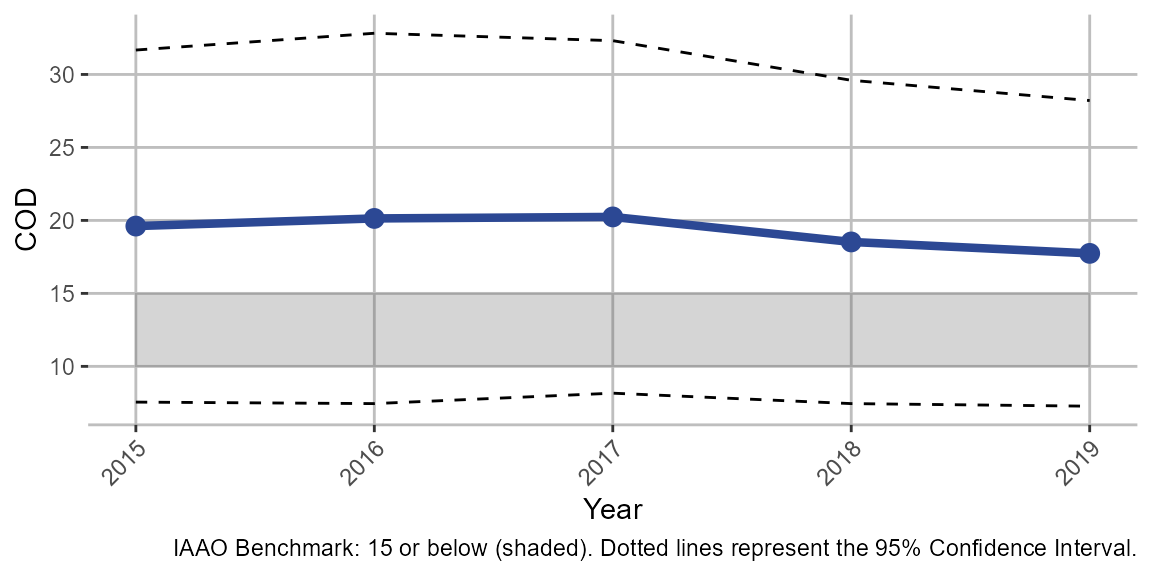
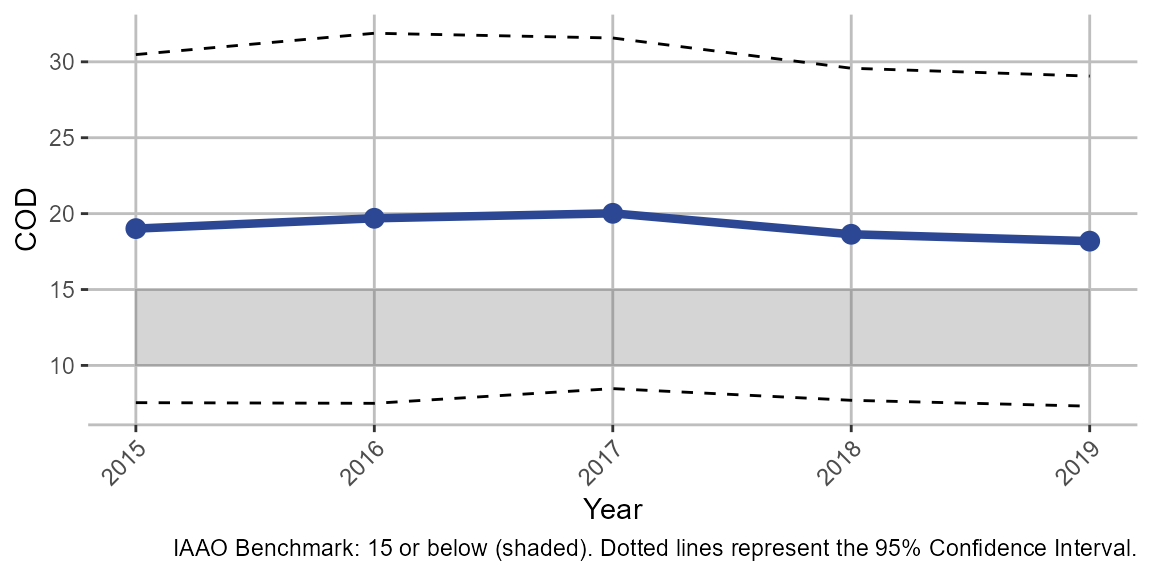
update package

diff --git a/docs/articles/Figures.html b/docs/articles/Figures.html
@@ -126,7 +126,7 @@
 <code class="sourceCode R"><span class="fu">rmarkdown</span><span class="fu">::</span><span class="fu"><a href="https://pkgs.rstudio.com/rmarkdown/reference/paged_table.html">paged_table</a></span><span class="op">(</span><span class="va">stats</span><span class="op">)</span></code></pre></div>
 <div data-pagedtable="false">
 <script data-pagedtable-source type="application/json">
-{"columns":[{"label":["N"],"name":[1],"type":["int"],"align":["right"]},{"label":["COD"],"name":[2],"type":["dbl"],"align":["right"]},{"label":["COD_SE"],"name":[3],"type":["dbl"],"align":["right"]},{"label":["PRD"],"name":[4],"type":["dbl"],"align":["right"]},{"label":["PRD_SE"],"name":[5],"type":["dbl"],"align":["right"]},{"label":["PRB"],"name":[6],"type":["dbl"],"align":["right"]},{"label":["PRB_SE"],"name":[7],"type":["dbl"],"align":["right"]},{"label":["q1_ratio"],"name":[8],"type":["dbl"],"align":["right"]},{"label":["median_ratio"],"name":[9],"type":["dbl"],"align":["right"]},{"label":["q3_ratio"],"name":[10],"type":["dbl"],"align":["right"]},{"label":["q1_sale"],"name":[11],"type":["dbl"],"align":["right"]},{"label":["median_sale"],"name":[12],"type":["dbl"],"align":["right"]},{"label":["q3_sale"],"name":[13],"type":["dbl"],"align":["right"]},{"label":["q1_assessed_value"],"name":[14],"type":["dbl"],"align":["right"]},{"label":["median_assessed_value"],"name":[15],"type":["dbl"],"align":["right"]},{"label":["q3_assessed_value"],"name":[16],"type":["dbl"],"align":["right"]},{"label":["Year"],"name":[17],"type":["dbl"],"align":["right"]}],"data":[{"1":"51879","2":"19.6120","3":"6.1534","4":"1.0595","5":"0.0158","6":"-0.0514","7":"0.0012","8":"0.7758364","9":"0.9093448","10":"1.057180","11":"148000","12":"230000","13":"375000","14":"136670.0","15":"213430","16":"331235.0","17":"2015"},{"1":"62852","2":"20.1355","3":"6.4729","4":"1.0591","5":"0.0048","6":"-0.0462","7":"0.0011","8":"0.7705720","9":"0.9001375","10":"1.060422","11":"148000","12":"229900","13":"365000","14":"133940.0","15":"209150","16":"321720.0","17":"2016"},{"1":"65961","2":"20.2388","3":"6.1611","4":"1.0356","5":"0.0090","6":"-0.0269","7":"0.0011","8":"0.7428108","9":"0.8732099","10":"1.031267","11":"155000","12":"235000","13":"365000","14":"136960.0","15":"209380","16":"316300.0","17":"2017"},{"1":"65298","2":"18.5243","3":"5.6507","4":"1.0101","5":"0.0098","6":"0.0133","7":"0.0010","8":"0.7470336","9":"0.8856039","10":"1.021504","11":"159642","12":"239900","13":"370000","14":"132382.5","15":"210645","16":"331257.5","17":"2018"},{"1":"62041","2":"17.7419","3":"5.3419","4":"1.0066","5":"0.0057","6":"0.0098","7":"0.0010","8":"0.7681042","9":"0.9035000","10":"1.036399","11":"164900","12":"245000","13":"372000","14":"140220.0","15":"217690","16":"336480.0","17":"2019"}],"options":{"columns":{"min":{},"max":[10]},"rows":{"min":[10],"max":[10]},"pages":{}}}
+{"columns":[{"label":["N"],"name":[1],"type":["int"],"align":["right"]},{"label":["COD"],"name":[2],"type":["dbl"],"align":["right"]},{"label":["COD_SE"],"name":[3],"type":["dbl"],"align":["right"]},{"label":["PRD"],"name":[4],"type":["dbl"],"align":["right"]},{"label":["PRD_SE"],"name":[5],"type":["dbl"],"align":["right"]},{"label":["PRB"],"name":[6],"type":["dbl"],"align":["right"]},{"label":["PRB_SE"],"name":[7],"type":["dbl"],"align":["right"]},{"label":["q1_ratio"],"name":[8],"type":["dbl"],"align":["right"]},{"label":["median_ratio"],"name":[9],"type":["dbl"],"align":["right"]},{"label":["q3_ratio"],"name":[10],"type":["dbl"],"align":["right"]},{"label":["q1_sale"],"name":[11],"type":["dbl"],"align":["right"]},{"label":["median_sale"],"name":[12],"type":["dbl"],"align":["right"]},{"label":["q3_sale"],"name":[13],"type":["dbl"],"align":["right"]},{"label":["q1_assessed_value"],"name":[14],"type":["dbl"],"align":["right"]},{"label":["median_assessed_value"],"name":[15],"type":["dbl"],"align":["right"]},{"label":["q3_assessed_value"],"name":[16],"type":["dbl"],"align":["right"]},{"label":["Year"],"name":[17],"type":["dbl"],"align":["right"]}],"data":[{"1":"51879","2":"19.0119","3":"5.8493","4":"1.0189","5":"0.0322","6":"-0.0514","7":"0.0012","8":"0.7758364","9":"0.9093448","10":"1.057180","11":"148000","12":"230000","13":"375000","14":"136670.0","15":"213430","16":"331235.0","17":"2015"},{"1":"62852","2":"19.6921","3":"6.2190","4":"1.0700","5":"0.0055","6":"-0.0462","7":"0.0011","8":"0.7705720","9":"0.9001375","10":"1.060422","11":"148000","12":"229900","13":"365000","14":"133940.0","15":"209150","16":"321720.0","17":"2016"},{"1":"65961","2":"20.0204","3":"5.8922","4":"1.0550","5":"0.0050","6":"-0.0269","7":"0.0011","8":"0.7428108","9":"0.8732099","10":"1.031267","11":"155000","12":"235000","13":"365000","14":"136960.0","15":"209380","16":"316300.0","17":"2017"},{"1":"65298","2":"18.6393","3":"5.5801","4":"1.0215","5":"0.0120","6":"0.0133","7":"0.0010","8":"0.7470336","9":"0.8856039","10":"1.021504","11":"159642","12":"239900","13":"370000","14":"132382.5","15":"210645","16":"331257.5","17":"2018"},{"1":"62041","2":"18.1867","3":"5.5470","4":"1.0238","5":"0.0038","6":"0.0098","7":"0.0010","8":"0.7681042","9":"0.9035000","10":"1.036399","11":"164900","12":"245000","13":"372000","14":"140220.0","15":"217690","16":"336480.0","17":"2019"}],"options":{"columns":{"min":{},"max":[10]},"rows":{"min":[10],"max":[10]},"pages":{}}}
   </script>
 </div>
 </div>
@@ -531,7 +531,7 @@ AV ~ SP + low + high + low * SP + high * SP
 <a href="#coefficient-of-dispersion-cod" class="anchor"></a>Coefficient of Dispersion (COD)</h2>
 <div class="sourceCode" id="cb6"><pre class="downlit sourceCode r">
 <code class="sourceCode R"><span class="fu"><a href="https://rdrr.io/r/base/print.html">print</a></span><span class="op">(</span><span class="va">iaao_rslt</span><span class="op">[[</span><span class="fl">1</span><span class="op">]</span><span class="op">]</span><span class="op">)</span>
-<span class="co">#&gt; [1] "For 2019, the COD in Cook County, Illinois was 17.74 which &lt;b&gt;did not meet&lt;/b&gt; the IAAO standard for uniformity. "</span>
+<span class="co">#&gt; [1] "For 2019, the COD in Cook County, Illinois was 18.19 which &lt;b&gt;did not meet&lt;/b&gt; the IAAO standard for uniformity. "</span>
 <span class="va">iaao_rslt</span><span class="op">[[</span><span class="fl">2</span><span class="op">]</span><span class="op">]</span></code></pre></div>
 <p><img src="Figures_files/figure-html/codgraph-1.png" width="576"></p>
 </div>
@@ -540,7 +540,7 @@ AV ~ SP + low + high + low * SP + high * SP
 <a href="#price-related-differential-prd" class="anchor"></a>Price-Related Differential (PRD)</h2>
 <div class="sourceCode" id="cb7"><pre class="downlit sourceCode r">
 <code class="sourceCode R"><span class="fu"><a href="https://rdrr.io/r/base/print.html">print</a></span><span class="op">(</span><span class="va">iaao_rslt</span><span class="op">[[</span><span class="fl">3</span><span class="op">]</span><span class="op">]</span><span class="op">)</span>
-<span class="co">#&gt; [1] " In 2019, the PRD in  Cook County, Illinois, was 1.007 which &lt;b&gt;meets &lt;/b&gt; the IAAO standard for vertical equity."</span>
+<span class="co">#&gt; [1] " In 2019, the PRD in  Cook County, Illinois, was 1.024 which &lt;b&gt;meets &lt;/b&gt; the IAAO standard for vertical equity."</span>
 <span class="va">iaao_rslt</span><span class="op">[[</span><span class="fl">4</span><span class="op">]</span><span class="op">]</span></code></pre></div>
 <p><img src="Figures_files/figure-html/prdgraph-1.png" width="576"></p>
 </div>

diff --git a/docs/articles/cmfproperty.html b/docs/articles/cmfproperty.html
@@ -171,11 +171,11 @@
 <code class="sourceCode R"><span class="va">stats</span> <span class="op">&lt;-</span> <span class="fu">cmfproperty</span><span class="fu">::</span><span class="fu"><a href="../reference/calc_iaao_stats.html">calc_iaao_stats</a></span><span class="op">(</span><span class="va">ratios</span><span class="op">)</span>
 <span class="fu"><a href="https://rdrr.io/r/utils/head.html">head</a></span><span class="op">(</span><span class="va">stats</span><span class="op">)</span>
 <span class="co">#&gt;       N     COD COD_SE    PRD PRD_SE     PRB PRB_SE  q1_ratio median_ratio</span>
-<span class="co">#&gt; 1 51879 19.6112 6.3815 1.0805 0.0066 -0.0514 0.0012 0.7758364    0.9093448</span>
-<span class="co">#&gt; 2 62852 20.2488 6.2768 1.0593 0.0102 -0.0462 0.0011 0.7705720    0.9001375</span>
-<span class="co">#&gt; 3 65961 20.1329 6.3062 1.0561 0.0072 -0.0269 0.0011 0.7428108    0.8732099</span>
-<span class="co">#&gt; 4 65298 18.6079 5.2675 1.0238 0.0036  0.0133 0.0010 0.7470336    0.8856039</span>
-<span class="co">#&gt; 5 62041 18.1365 5.4413 1.0392 0.0138  0.0098 0.0010 0.7681042    0.9035000</span>
+<span class="co">#&gt; 1 51879 19.2009 6.1946 1.0578 0.0079 -0.0514 0.0012 0.7758364    0.9093448</span>
+<span class="co">#&gt; 2 62852 20.0905 6.6369 1.0798 0.0219 -0.0462 0.0011 0.7705720    0.9001375</span>
+<span class="co">#&gt; 3 65961 20.0706 5.8239 1.0600 0.0074 -0.0269 0.0011 0.7428108    0.8732099</span>
+<span class="co">#&gt; 4 65298 18.4733 5.1744 1.0308 0.0077  0.0133 0.0010 0.7470336    0.8856039</span>
+<span class="co">#&gt; 5 62041 18.0105 5.5011 1.0143 0.0097  0.0098 0.0010 0.7681042    0.9035000</span>
 <span class="co">#&gt;   q3_ratio q1_sale median_sale q3_sale q1_assessed_value median_assessed_value</span>
 <span class="co">#&gt; 1 1.057180  148000      230000  375000          136670.0                213430</span>
 <span class="co">#&gt; 2 1.060422  148000      229900  365000          133940.0                209150</span>

diff --git a/docs/articles/About.html b/docs/articles/About.html
@@ -104,10 +104,9 @@
 
     
     
-<div id="why-cmfproperty" class="section level1">
+<div id="introduction" class="section level1">
 <h1 class="hasAnchor">
-<a href="#why-cmfproperty" class="anchor"></a>Why <code>cmfproperty</code>
-</h1>
+<a href="#introduction" class="anchor"></a>Introduction</h1>
 <p>Property tax analysis and sale ratios studies are highly standardized processes ripe for automation. This package implements the IAAO <a href="https://www.iaao.org/media/standards/Standard_on_Ratio_Studies.pdf">standards</a> and generates a sale ratios study in seconds from user-provided data.</p>
 <p>This tool has been critical for the work of the <a href="https://harris.uchicago.edu/research-impact/centers-institutes/center-municipal-finance">Center for Municipal Finance</a> as we produce thousands of sale ratios studies annually. This open-source tool incorporates what we have learned in this work and is designed to enable Assessors and members of the public to analyze their own data.</p>
 </div>
